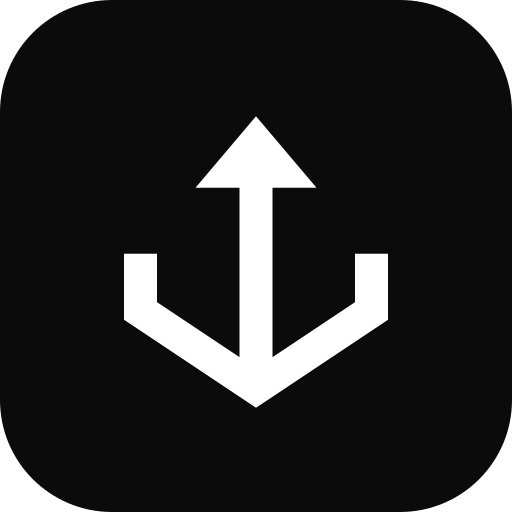
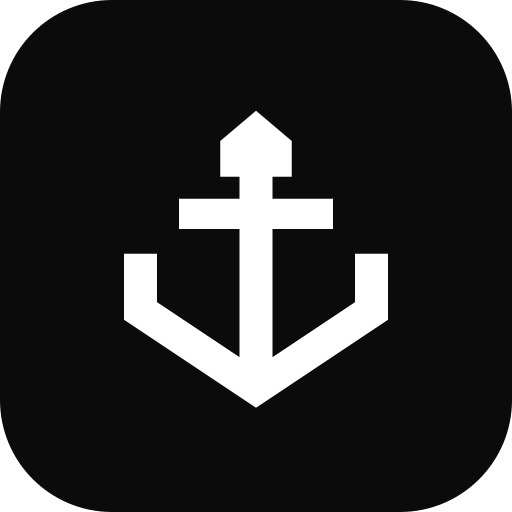
feat: crossbar anchor as the brand symbol, drop phone line, position Catequese Hub for catechesis
- Symbol switched to the anchor with crossbar everywhere (header, footer,
  favicon, apple icon, OG image, brand files)
- Footer no longer lists a separate phone; contact card says WhatsApp
- Catequese Hub described as an online system for catechesis

Changed region(s): [[0.5312, 0.25, 0.6562, 0.4688], [0.3438, 0.25, 0.4688, 0.4688], [0.4688, 0.2188, 0.5312, 0.25]]

diff --git a/src/content/site.ts b/src/content/site.ts
@@ -185,7 +185,7 @@ export const catequeseFaq: FaqItem[] = [
 export const products = [
   { n: "01", title: "Criação de sites", desc: "Para profissionais e empresas que precisam ser encontrados na internet e receber contatos pelo WhatsApp.", points: ["Página profissional, landing page ou institucional", "Pronto para o celular e para o Google", "Publicado no seu domínio"], priceLabel: "Projetos a partir de", price: `R$ ${formatPrice(siteOffers[0].price)}`, href: "/criacao-de-sites", link: "Ver formatos e preços" },
   { n: "02", title: "Desenvolvimento Shopify", desc: "Para lojas e agências que querem a loja do jeito que imaginaram, sem brigar com o tema.", points: ["Seções e ajustes em Liquid", "Páginas de produto e de campanha", "Prévia aprovada antes de publicar"], priceLabel: "Ajustes pontuais a partir de", price: `R$ ${formatPrice(shopifyOffers[0].price)}`, href: "/shopify", link: "Ver serviços e preços" },
-  { n: "03", title: "Catequese Hub", desc: "O sistema de gestão da catequese para paróquias que querem tudo organizado, sem fichas de papel nem planilhas espalhadas.", points: ["Inscrição online das famílias", "Turmas, chamadas e carnê", "Acesso para coordenação e catequistas"], priceLabel: "Assinatura mensal", price: `R$ ${formatPrice(catequese.pricing.monthly)}/mês`, href: "/sistema-catequese", link: "Ver o sistema por dentro" },
+  { n: "03", title: "Catequese Hub", desc: "O sistema online para catequeses que querem tudo organizado, sem fichas de papel nem planilhas espalhadas.", points: ["Inscrição online das famílias", "Turmas, chamadas e carnê", "Acesso para coordenação e catequistas"], priceLabel: "Assinatura mensal", price: `R$ ${formatPrice(catequese.pricing.monthly)}/mês`, href: "/sistema-catequese", link: "Ver o sistema por dentro" },
 ];
 /** Seções "Isso soa familiar?": problema antes do produto, nas palavras do cliente. */
 export type PainItem = { who?: string; pain: string; fix: string; href?: string; link?: string };
@@ -196,7 +196,7 @@ export const pains: PainsContent = {
   items: [
     { who: "Profissionais e empresas", pain: "“Os clientes me procuram no Google e encontram o concorrente.”", fix: "Um site claro, rápido e com um caminho direto para o WhatsApp.", href: "/criacao-de-sites", link: "Ver criação de sites" },
     { who: "Lojas Shopify e agências", pain: "“Toda mudança na loja vira uma briga com o tema.”", fix: "Seções, páginas e ajustes em Liquid, feitos sob medida para o seu tema.", href: "/shopify", link: "Ver desenvolvimento Shopify" },
-    { who: "Paróquias", pain: "“A catequese vive em planilhas, papéis e grupos de WhatsApp.”", fix: "Inscrições, turmas, chamadas e carnê em um só sistema online.", href: "/sistema-catequese", link: "Conhecer o Catequese Hub" },
+    { who: "Catequeses", pain: "“A catequese vive em planilhas, papéis e grupos de WhatsApp.”", fix: "Inscrições, turmas, chamadas e carnê em um só sistema online.", href: "/sistema-catequese", link: "Conhecer o Catequese Hub" },
   ],
 };
 export const sitePains: PainsContent = {
@@ -235,8 +235,8 @@ export const guarantees: Record<Service, string[]> = {
 export const homeFaq: FaqItem[] = [
   { question: "Preciso entender de tecnologia para contratar?", answer: "Não. Você conta o que precisa com as suas palavras, e a gente cuida da parte técnica, explicando cada etapa sem jargão." },
   { question: "E se eu não gostar do resultado?", answer: "Antes de publicar, você vê uma prévia e pede os ajustes das rodadas combinadas na proposta. Nos sites, você ainda pode desistir em até 7 dias após a contratação, com devolução integral." },
-  { question: "A Philocode atende clientes de outras cidades?", answer: "Sim. Estamos em Brasília (DF) e atendemos online profissionais, empresas, lojas, agências e paróquias de todo o Brasil." },
-  { question: "Como sei qual produto escolher?", answer: "Se você precisa apresentar seu trabalho e receber contatos, conheça criação de sites. Se já usa ou quer começar na Shopify, veja desenvolvimento Shopify. Se cuida de uma paróquia, conheça o Catequese Hub, nosso sistema de gestão da catequese. Se a sua necessidade é outra, conte a ideia e avaliamos um software sob medida." },
+  { question: "A Philocode atende clientes de outras cidades?", answer: "Sim. Estamos em Brasília (DF) e atendemos online profissionais, empresas, lojas, agências e catequeses de todo o Brasil." },
+  { question: "Como sei qual produto escolher?", answer: "Se você precisa apresentar seu trabalho e receber contatos, conheça criação de sites. Se já usa ou quer começar na Shopify, veja desenvolvimento Shopify. Se coordena uma catequese, conheça o Catequese Hub, nosso sistema online para catequeses. Se a sua necessidade é outra, conte a ideia e avaliamos um software sob medida." },
   { question: "Os valores do site são o orçamento final?", answer: "São preços iniciais para escopos específicos. A proposta confirma entregas, investimento e prazo antes do início. Novos preços não alteram as condições de contratos existentes." },
 ];
 export const contactSection = {

diff --git a/src/app/sistema-catequese/page.tsx b/src/app/sistema-catequese/page.tsx
@@ -6,10 +6,10 @@ import { Pains } from "@/components/sections/Pains";
 import { JsonLd } from "@/components/sections/JsonLd";
 import { catequese, catequeseCtaLabel, catequeseFaq, catequesePains, formatPrice, whatsappMessages } from "@/content/site";
 import { pageMetadata } from "@/lib/metadata";
-export const metadata = pageMetadata("/sistema-catequese", "Catequese Hub · Sistema de gestão da catequese · Philocode", `Catequese Hub: inscrição online, turmas, chamadas, catequistas e carnê da catequese em um só sistema. Mensalidade de R$ ${formatPrice(catequese.pricing.monthly)}.`);
+export const metadata = pageMetadata("/sistema-catequese", "Catequese Hub · Sistema online para catequeses · Philocode", `Catequese Hub: inscrição online, turmas, chamadas, catequistas e carnê da catequese em um só sistema. Mensalidade de R$ ${formatPrice(catequese.pricing.monthly)}.`);
 export default function CatequesePage() {
   return <>
-    <Hero service="catequese" eyebrow="Catequese Hub · Sistema online para paróquias" title={{ before: "A catequese da sua paróquia, ", emphasis: "organizada", after: "." }} subtitle="Chega de fichas de papel, planilhas e listas no WhatsApp. Inscrições online, turmas, chamadas, catequistas e carnê em um só sistema, direto no navegador." proof={[`R$ ${formatPrice(catequese.pricing.monthly)}/mês`, "Funciona no celular e no computador", "Suporte para coordenação e catequistas"]}><CatequeseVisual /></Hero>
+    <Hero service="catequese" eyebrow="Catequese Hub · Sistema online para catequeses" title={{ before: "A catequese da sua paróquia, ", emphasis: "organizada", after: "." }} subtitle="Chega de fichas de papel, planilhas e listas no WhatsApp. Inscrições online, turmas, chamadas, catequistas e carnê em um só sistema, direto no navegador." proof={[`R$ ${formatPrice(catequese.pricing.monthly)}/mês`, "Funciona no celular e no computador", "Suporte para coordenação e catequistas"]}><CatequeseVisual /></Hero>
     <Pains content={catequesePains} />
     <CatequeseScreens /><CatequeseFeatures /><CatequeseAccess /><CatequesePricing /><Faq items={catequeseFaq} message={whatsappMessages.catequese} label={catequeseCtaLabel} /><Contact message={whatsappMessages.catequese} label={catequeseCtaLabel} /><JsonLd service="catequese" />
   </>;

diff --git a/src/app/opengraph-image.tsx b/src/app/opengraph-image.tsx
@@ -13,12 +13,12 @@ export default async function OpengraphImage() {
       <div style={{ width: "100%", height: "100%", display: "flex", position: "relative", background: "#0B0B0B", color: "#FFFFFF", padding: 72 }}>
         <div style={{ position: "absolute", left: 790, top: 140, width: 380, height: 380, borderRadius: 9999, border: "1px solid rgba(107,114,128,0.45)", display: "flex" }} />
         <div style={{ position: "absolute", left: 980, top: 0, width: 1, height: 630, background: "rgba(107,114,128,0.35)", display: "flex" }} />
-        <svg width="230" height="264" viewBox="12 4 96 110" style={{ position: "absolute", left: 865, top: 198 }}>
+        <svg width="230" height="264" viewBox="12 4 96 108" style={{ position: "absolute", left: 865, top: 198 }}>
           <path d={ANCHOR_PATH} fill="#FFFFFF" />
         </svg>
         <div style={{ display: "flex", flexDirection: "column", justifyContent: "space-between", height: "100%" }}>
           <div style={{ display: "flex", alignItems: "center", gap: 16 }}>
-            <svg width="44" height="50" viewBox="12 4 96 110"><path d={ANCHOR_PATH} fill="#FFFFFF" /></svg>
+            <svg width="44" height="50" viewBox="12 4 96 108"><path d={ANCHOR_PATH} fill="#FFFFFF" /></svg>
             <div style={{ fontSize: 44, fontWeight: 600, letterSpacing: -2 }}>philocode</div>
           </div>
           <div style={{ display: "flex", flexDirection: "column", gap: 24 }}>

diff --git a/src/components/ui/Logo.tsx b/src/components/ui/Logo.tsx
@@ -1,12 +1,12 @@
 import clsx from "clsx";
 
-/** Geometria do símbolo (âncora com ponta de seta), viewBox 0 0 120 120. Ver Figma: Logo/Símbolo. */
+/** Geometria do símbolo (âncora com cruzeta), viewBox 0 0 120 120. Ver Figma: Logo/Símbolo, Estilo=Alternativo. */
 export const ANCHOR_PATH =
-  "M60 6 82 32H66V93.6L96 73.6V56h12v24L60 112 12 80V56h12v17.6L54 93.6V32H38Z";
+  "M60 4 73 15V28H66V36H88V47H66V93.6L96 73.6V56h12v24L60 112 12 80V56h12v17.6L54 93.6V47H32V36H54V28H47V15Z";
 
 export function AnchorSymbol({ className, title }: { className?: string; title?: string }) {
   return (
-    <svg viewBox="12 4 96 110" className={className} fill="currentColor" role={title ? "img" : undefined} aria-hidden={title ? undefined : true} aria-label={title}>
+    <svg viewBox="12 4 96 108" className={className} fill="currentColor" role={title ? "img" : undefined} aria-hidden={title ? undefined : true} aria-label={title}>
       <path d={ANCHOR_PATH} />
     </svg>
   );

diff --git a/src/components/sections/JsonLd.tsx b/src/components/sections/JsonLd.tsx
@@ -7,7 +7,7 @@ const catequeseOffers: Offer[] = [
 const offersByService: Record<Service, { name: string; path: string; offers: Offer[]; fixed?: boolean }> = {
   sites: { name: "Criação de sites", path: "/criacao-de-sites", offers: [...siteOffers, ...support.sites] },
   shopify: { name: "Desenvolvimento Shopify", path: "/shopify", offers: [...shopifyOffers, ...support.shopify] },
-  catequese: { name: "Catequese Hub · Sistema de gestão da catequese", path: "/sistema-catequese", offers: catequeseOffers, fixed: true },
+  catequese: { name: "Catequese Hub · Sistema online para catequeses", path: "/sistema-catequese", offers: catequeseOffers, fixed: true },
 };
 export function JsonLd({ service }: { service?: Service }) {
   const current = service ? offersByService[service] : undefined;

diff --git a/src/components/sections/Contact.tsx b/src/components/sections/Contact.tsx
@@ -55,7 +55,7 @@ export function Contact({ message = whatsappMessages.default, label }: { message
             >
               <WhatsAppIcon className="size-6 shrink-0 text-snow" />
               <span>
-                <span className="block font-mono text-xs tracking-[0.08em] text-mist uppercase">WhatsApp e telefone</span>
+                <span className="block font-mono text-xs tracking-[0.08em] text-mist uppercase">WhatsApp</span>
                 <span className="mt-0.5 block text-lg font-semibold">{contact.whatsappDisplay}</span>
               </span>
               <span className="sr-only"> (abre em nova aba)</span>

diff --git a/src/app/layout.tsx b/src/app/layout.tsx
@@ -30,7 +30,7 @@ const jetbrainsMono = JetBrains_Mono({
 
 const title = `${company.name} · Desenvolvimento de software`;
 const description =
-  "Desenvolvimento de software: sites, Shopify e o Catequese Hub, sistema de gestão da catequese. Atendimento online para todo o Brasil, direto de Brasília.";
+  "Desenvolvimento de software: sites, Shopify e o Catequese Hub, sistema online para catequeses. Atendimento online para todo o Brasil, direto de Brasília.";
 
 export const metadata: Metadata = {
   metadataBase: new URL(SITE_URL),

diff --git a/src/components/layout/Footer.tsx b/src/components/layout/Footer.tsx
@@ -44,11 +44,6 @@ export function Footer() {
                 </a>
               </li>
               <li>
-                <a href={`tel:+${contact.whatsappDigits}`} className="inline-flex min-h-10 items-center hover:text-snow">
-                  Telefone {contact.whatsappDisplay}
-                </a>
-              </li>
-              <li>
                 <a href={`mailto:${contact.email}`} className="inline-flex min-h-10 items-center break-all hover:text-snow">
                   {contact.email}
                 </a>
